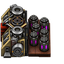
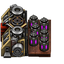
Restore component factory cell-production artwork

Changed region(s): [[0.4375, 0.2188, 0.8125, 0.8438], [0.4688, 0.625, 0.5, 0.6875], [0.5, 0.7812, 0.5312, 0.8125]]

diff --git a/docs/tools/build_shared_factories.py b/docs/tools/build_shared_factories.py
@@ -141,26 +141,12 @@ def build():
             d.ellipse((cx-43,cy-19,cx+43,cy+23),fill=(255,255,255,round(230*level)))
         sheet.paste(placed(im).crop(box),(w*n,0))
     sheet.save(OUT/'factory-left-opening-glow.png')
-    # Right sides are replaceable independently of the common module. Preserve
-    # the component factory's original accumulating-cell cycle until its own redraw.
+    # Right sides are replaceable independently of the common module.
     for name, crop in [('weapons',(609,58,1101,1166)),('trucks',(637,80,1107,1141)),
                        ('equip',(672,51,1153,1178))]:
         Image.open(ART/f'fabrik-{name}-icon-source.png').convert('RGBA').crop(crop).resize(
             (92,216),Image.Resampling.LANCZOS).save(OUT/f'factory-{name}-right.png')
-    original=Image.open(OUT/'fab-comp-sheet.png').convert('RGBA')
-    sheet=Image.new('RGBA',(92*16,256))
-    for n in range(16):
-        frame=original.crop((n*128+53,0,n*128+99,128))
-        # Keep black recesses enclosed by the body; only exterior black pixels
-        # belong to the ground-shadow layer. Flood-fill the exterior with padding.
-        silhouette = Image.new('L',(48,130))
-        silhouette.paste(frame.convert('RGB').convert('L').point(lambda v:255 if v else 0),(1,1))
-        ImageDraw.floodfill(silhouette,(0,0),128)
-        exterior = silhouette.crop((1,1,47,129))
-        frame.putdata([(0,0,0,0) if r==g==blue==0 and outside==128 else (r,g,blue,a)
-                       for (r,g,blue,a),outside in zip(frame.getdata(),exterior.getdata())])
-        sheet.paste(frame.resize((92,256),Image.Resampling.LANCZOS),(92*n,0))
-    sheet.save(OUT/'factory-comp-right.png')
+    build_component_right()
     # Per-variant original shadows; component shadows follow the cell buildup.
     for name in PALETTES:
         original=Image.open(OUT/f'fab-{name}-sheet.png').convert('RGBA')
@@ -183,12 +169,6 @@ def build():
     (ROOT/'prototypes/factory-palettes.lua').write_text('\n'.join(lines+['}'])+'\n')
     for name in PALETTES:
         icon = render(name,12 if name=='comp' else 0,shadow=False)
-        if name=='comp':
-            # Keep the existing detailed AI cells in the inventory icon while
-            # the replaceable world module retains the original animated sheet.
-            icon.paste((0,0,0,0),(112,0,256,256))
-            right = Image.open(ART/'fabrik-comp-icon-source.png').convert('RGBA')
-            icon.alpha_composite(right.crop((615,61,1077,1151)).resize((92,216),Image.Resampling.LANCZOS),(112,16))
         icon.resize((64,64),Image.Resampling.LANCZOS).save(OUT/f'fabrik-{name}-icon.png')
     # Keep the existing provenance/validation manifest in sync with palette edits.
     manifest_path = ROOT / 'docs/data/ai-redraw-0.5.1.json'
@@ -209,6 +189,49 @@ def build():
     manifest_path.write_text(json.dumps(manifest, indent=2) + '\n')
 
 
+def build_component_right():
+    """Fixed platform and six identical cells, extracted from the accepted master.
+
+    Frame pairs add back-left, back-right, middle-left, middle-right, front-left,
+    front-right; frame15 clears, matching fab-comp-sheet.png. No shaded body rotates.
+    """
+    source = Image.open(ART/'fabrik-comp-icon-source.png').convert('RGBA')
+    crop = (615,61,1077,1151)
+    def module(im):
+        return im.crop(crop).resize((92,216),Image.Resampling.LANCZOS)
+    # Extend an exposed floor tile under the cells; retain the master's bottom rim.
+    platform = Image.new('RGBA',source.size)
+    platform.paste(source.crop((615,1025,1077,1151)),(615,1025))
+    tile = source.crop((641,954,749,1047))
+    platform.paste(tile.resize((462,645),Image.Resampling.LANCZOS),(615,380))
+    d=ImageDraw.Draw(platform)
+    for x in [616,760,1069]:
+        d.line((x,380,x,1050),fill=(43,24,16,255),width=5)
+        d.line((x+4,380,x+4,1050),fill=(135,72,38,255),width=2)
+    for y in [380,605,830]:
+        d.line((615,y,1076,y),fill=(43,24,16,255),width=5)
+        d.line((615,y+4,1076,y+4),fill=(135,72,38,255),width=2)
+    module(platform).save(OUT/'factory-comp-right.png')
+    # The unobscured front-right cell supplies the same complete model everywhere.
+    mask=Image.new('L',source.size)
+    ImageDraw.Draw(mask).polygon([
+        (921,721),(947,721),(949,735),(974,740),(995,753),(1011,771),
+        (1020,793),(1031,815),(1035,843),(1034,941),(1029,969),
+        (1017,989),(994,1006),(963,1019),(930,1024),(895,1018),
+        (867,1005),(850,984),(840,957),(839,845),(843,817),
+        (851,791),(865,768),(886,748),(920,736)],fill=255)
+    cell=source.copy();cell.putalpha(ImageChops.multiply(source.getchannel('A'),mask))
+    cell=cell.crop((837,719,1038,1027))
+    sheet=Image.new('RGBA',(92*16,216))
+    positions=[(628,272),(838,322),(660,446),(838,555),(628,615),(838,719)]
+    for n in range(16):
+        frame=Image.new('RGBA',source.size)
+        count=0 if n==15 else min(n//2,6)
+        for position in positions[:count]:frame.alpha_composite(cell,position)
+        sheet.paste(module(frame),(92*n,0))
+    sheet.save(OUT/'factory-comp-cells.png')
+
+
 def render(name,n,shadow=True, palette=None):
     """Authoring preview of the same layers/positions used by factory_visuals.lua."""
     p=PALETTES[name] if palette is None else palette
@@ -219,7 +242,8 @@ def render(name,n,shadow=True, palette=None):
         if color:im=tint(im,color)
         out.alpha_composite(im,(x,y))
     if shadow:add(f'fab-{name}-shadow.png',256,256,0,0,name=='comp')
-    add(f'factory-{name}-right.png',92,256 if name=='comp' else 216,112,0 if name=='comp' else 16,name=='comp')
+    add(f'factory-{name}-right.png',92,216,112,16)
+    if name=='comp':add('factory-comp-cells.png',92,216,112,16,True)
     add('factory-left-base.png',110,216,2,16)
     for material in ['trim','rings','panels']:add(f'factory-left-{material}.png',110,216,2,16,color=p[material])
     for rotor in ['upper','front','rear']:

diff --git a/docs/tools/validate_parent_content.py b/docs/tools/validate_parent_content.py
@@ -210,7 +210,8 @@ for name, palette in palettes.items():
             layer['draw_as_shadow'] = True
         layers.append(layer)
     component = name == 'comp'
-    add('factory-' + name + '-right', 92, 256 if component else 216, 112, 0 if component else 16, component)
+    add('factory-' + name + '-right', 92, 216, 112, 16)
+    if component: add('factory-comp-cells', 92, 216, 112, 16, True)
     add('factory-left-base', 110, 216, 2, 16)
     for material in ['trim', 'rings', 'panels']:
         add('factory-left-' + material, 110, 216, 2, 16, tint=palette[material])

diff --git a/docs/decisions/ai-artwork.md b/docs/decisions/ai-artwork.md
@@ -71,4 +71,4 @@ The cyborg factory uses fixed vat shells and a separate liquid layer: green fill
 
 The vehicle factory applies the accepted rotor method to four blue upper indicators and paired front/rear cutouts. Keep its loader stationary and mask the rear indicators behind the copper housing. The owner identified an incomplete front cylinder in the initial master: correct the local drum to a full concentric face with a centered hub, and align both the moving cutouts and inventory icon with it. Preserve the original 16-frame cycle and sheet; graphical confirmation of this correction is pending.
 
-The owner selected a shared neutral left module for weapons, vehicle, equipment and component factories. Use independent trim, ring, panel and light masks; combine these with each right-hand assembly. `docs/data/factory-palettes.json` controls colors and the optional opening-glow overlay (components initially). Run `docs/tools/build_shared_factories.py` after palette changes to synchronize runtime tints and icons. The corrected vehicle cylinder is reused. Superseded generated per-factory layers/builders are replaced; original sheets and AI masters remain. The component right module retains its original cell-production cycle pending its separate redraw. Its speed remains0.2; the other three remain1. Ammunition and cyborg factories retain their distinct arrangements. Factorio supports layered animations and [per-layer tint](https://lua-api.factorio.com/latest/types/SpriteParameters.html). Shared-module graphical confirmation is pending.
+The owner selected a shared neutral left module for weapons, vehicle, equipment and component factories. Use independent trim, ring, panel and light masks; combine these with each right-hand assembly. `docs/data/factory-palettes.json` controls colors and the optional opening-glow overlay (components initially). Run `docs/tools/build_shared_factories.py` after palette changes to synchronize runtime tints and icons. The corrected vehicle cylinder is reused. Superseded generated per-factory layers/builders are replaced; original sheets and AI masters remain. The component right module uses a fixed platform and six copies of one complete cell extracted from its accepted master. Its separate cell layer preserves the original appearance sequence and clears on frame15; the inventory icon uses that same completed assembly. Its speed remains0.2; the other three remain1. Ammunition and cyborg factories retain their distinct arrangements. Factorio supports layered animations and [per-layer tint](https://lua-api.factorio.com/latest/types/SpriteParameters.html). Shared-module graphical confirmation is pending.
